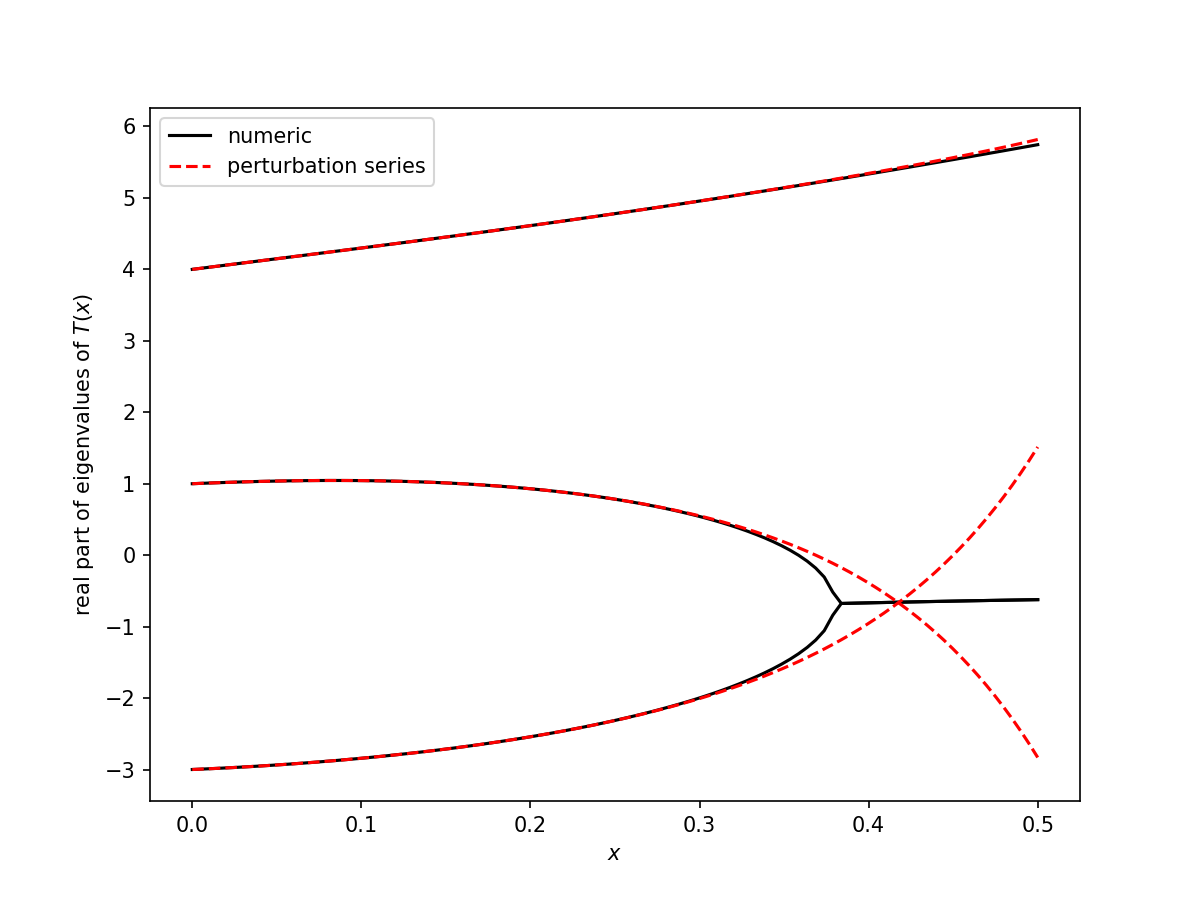
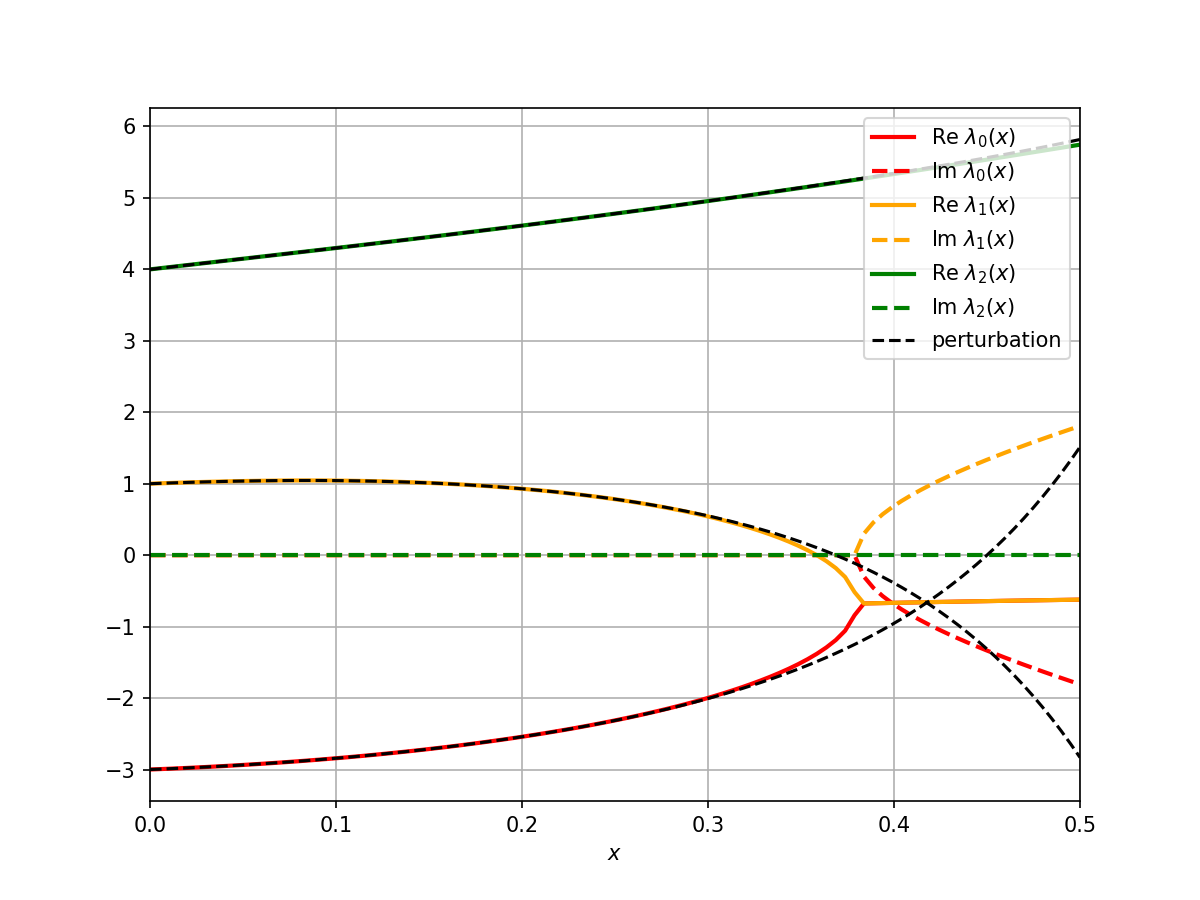
added python script

diff --git a/visualisation/visualisation.py b/visualisation/visualisation.py
@@ -1,0 +1,39 @@
+import numpy as np
+from matplotlib import pyplot as plt
+
+coeffs1 = [1.0,1.0,-4.666667,-9.555555,-0.75925994,-14.006171,-7.251543,-78.331795,-68.54959,-252.07207] #coefficients for perturbation series of eigenvalue that splits from 1
+coeffs1.reverse()
+p1= np.poly1d(coeffs1)
+coeffs2 = [4.0,3.0,-0.61904764,5.6371894,-4.7553186,0.5315783,-10.987507,28.141384,-19.366415,38.909607]#coefficients for perturbation series of eigenvalue that splits from 4
+coeffs2.reverse()
+p2 = np.poly1d(coeffs2)
+coeffs3 = [-3.0,1.0,5.285714,3.9183674,5.514577,13.474595,18.239044,50.190426,87.915985,213.16255]#coefficients for perturbation series of eigenvalue that splits from -3
+coeffs3.reverse()
+p3 = np.poly1d(coeffs3)
+T0 = np.array([[1.0,0.0,0.0],[0.0,4.0,0.0],[0.0,0.0,-3.0]])
+T1 = np.array([[1.0,-1.0,3.0],[-5.0,3.0,2.0],[-4.0,-8.0,1.0]])
+
+def T(x):
+    return T0+x*T1
+
+fig, ax= plt.subplots(figsize=(8,6))
+X = np.linspace(0,0.5,100)
+test = np.array([np.sort(np.linalg.eigvals(T(x))) for x in X]) #numerically calculated
+
+colors = ["red","orange","green"]
+for i in range(3):
+    labelstr = "Re $\lambda_{}(x)$".format(i)
+    labelstr2 = "Im $\lambda_{}(x)$".format(i)
+    ax.plot(X,np.real(test[:,i]),zorder=2,color =colors[i],lw=2, label = labelstr)
+    ax.plot(X,np.imag(test[:,i]),zorder=2,color =colors[i], ls="--",lw=2, label= labelstr2)
+
+ax.plot(X,p1(X),color="black",zorder=3, ls="--", label="perturbation")
+ax.plot(X,p2(X),color="black",zorder=3, ls="--")
+ax.plot(X,p3(X),color="black",zorder=3, ls="--")
+ax.set_xlabel("$x$")
+ax.set_yticks([-3,-2,-1,0,1,2,3,4,5,6])
+plt.legend()
+ax.set_xlim(0,0.5)
+plt.grid(True)
+plt.savefig("evals.png",dpi=150)
+
